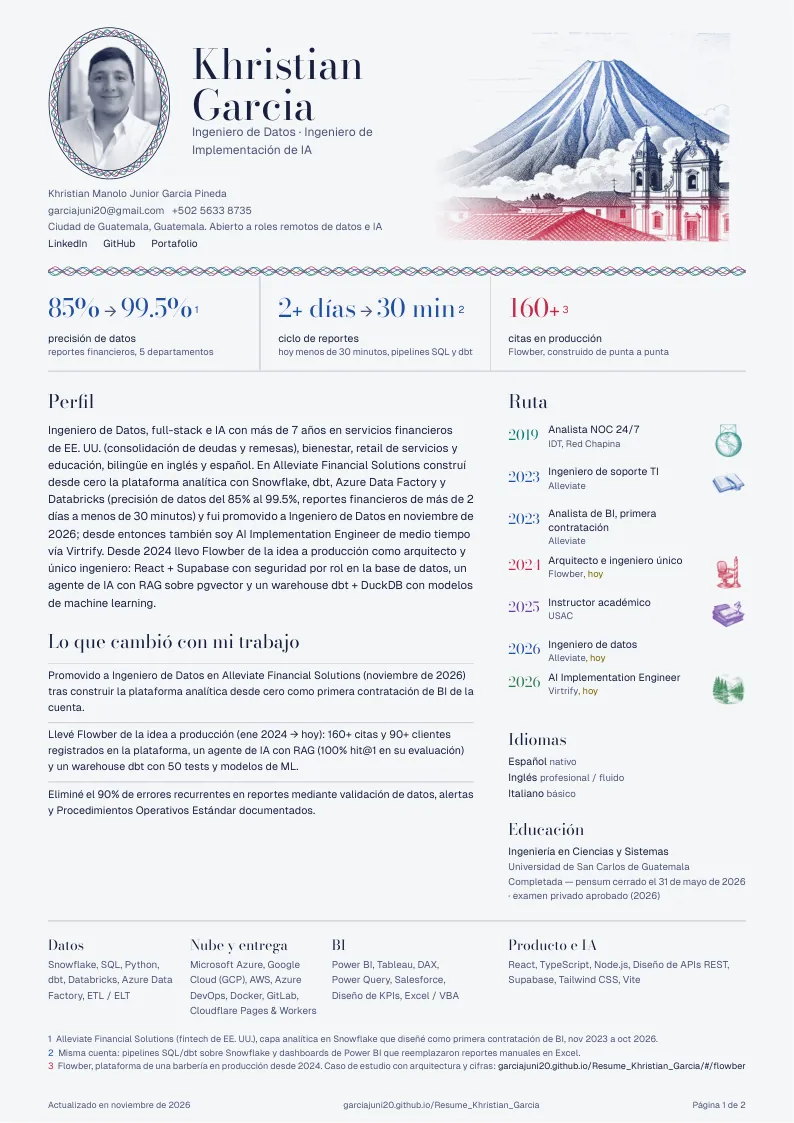
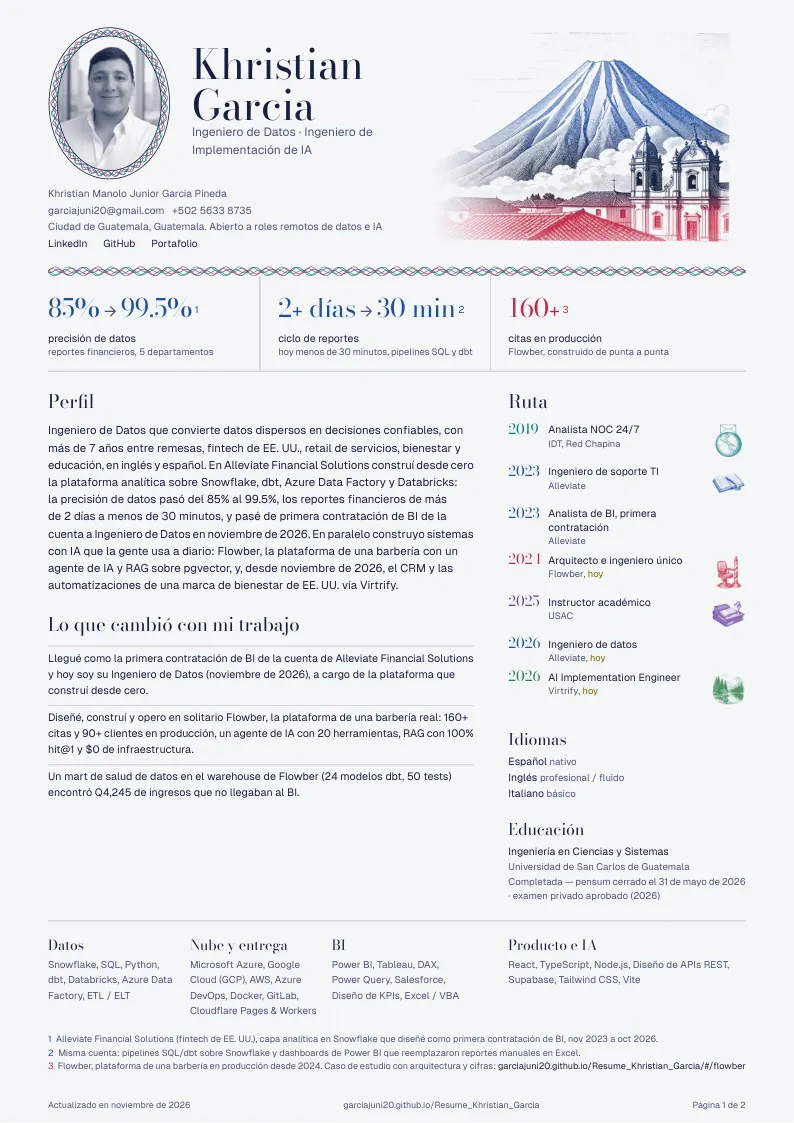
feat(cv): sharper achievements and summary, baseline-aligned creative PDF
Content (EN/ES, facts already in the profiles only):
- Summary opens with the positioning: a Data Engineer who turns scattered
  data into decisions people can trust, then the Alleviate numbers and the
  first-BI-hire -> Data Engineer arc.
- Achievements rewritten as before/after stories: 5 departments of
  spreadsheets -> one source of truth (85% -> 99.5%), first BI hire -> Data
  Engineer, 2+ days -> under 30 min, Flowber built and run solo, the
  data-health mart that found Q4,245 missing from BI, 90% fewer errors.
- Approach lines tightened (5 departments, GitLab, SOPs; IDT named).

Creative PDF:
- Route: years pulled up 4.6pt to share the baseline of the role.
- Ledger: the year is set like a drop cap on the company line; header grows
  to 21pt so react-pdf keeps it. Both languages still fit 2 pages.

Changed region(s): [[0.0605, 0.374, 0.6045, 0.748], [0.6348, 0.4987, 0.6952, 0.6233], [0.6348, 0.374, 0.6952, 0.4675]]

diff --git a/src/data/profile-es.ts b/src/data/profile-es.ts
@@ -17,26 +17,26 @@ export const profileES = {
     "Ingeniero de Datos, desarrollador full-stack e ingeniero de IA con más de 7 años en servicios financieros de EE. UU. (consolidación de deudas en Alleviate y remesas internacionales en IDT), bienestar, retail de servicios y educación universitaria, trabajando en inglés y en español. En Alleviate Financial Solutions construí desde cero la plataforma analítica como primera contratación de BI de la cuenta y fui promovido a Ingeniero de Datos en noviembre de 2026: modelado, perfilamiento de roles y optimización en Snowflake, pipelines ETL/ELT con dbt, orquestación en Azure Data Factory sobre Azure y GCP, Databricks e integraciones de Salesforce hacia Snowflake, elevando la precisión de datos del 85% al 99.5% y reduciendo el ciclo de reportes financieros de más de 2 días a menos de 30 minutos. Desde noviembre de 2026 también trabajo medio tiempo como AI Implementation Engineer a través de Virtrify, construyendo el CRM, las automatizaciones en n8n y el sistema de contenido de una marca de bienestar y retiros en EE. UU. Desde enero de 2024 lidero la transformación digital de Flowber, la barbería de Danover, de la idea a producción como full-stack engineer y arquitecto: React/TypeScript sobre PostgreSQL/Supabase con RLS por rol, un agente de IA con 20 herramientas y RAG sobre pgvector, y un data warehouse con dbt + DuckDB que incluye modelos predictivos. Lidero proyectos de principio a fin con stakeholders de EE. UU., automatizo procesos con Python, SQL y Selenium, y diseño, despliego y escalo APIs REST y aplicaciones dockerizadas. Ingeniería en Sistemas en la USAC completada (pensum cerrado y examen privado aprobado, 2026); maestría a partir de febrero de 2027.",
 
   summaryShort:
-    "Ingeniero de Datos, full-stack e IA con más de 7 años en servicios financieros de EE. UU. (consolidación de deudas y remesas), bienestar, retail de servicios y educación, bilingüe en inglés y español. En Alleviate Financial Solutions construí desde cero la plataforma analítica con Snowflake, dbt, Azure Data Factory y Databricks (precisión de datos del 85% al 99.5%, reportes financieros de más de 2 días a menos de 30 minutos) y fui promovido a Ingeniero de Datos en noviembre de 2026; desde entonces también soy AI Implementation Engineer de medio tiempo vía Virtrify. Desde 2024 llevo Flowber de la idea a producción como arquitecto y único ingeniero: React + Supabase con seguridad por rol en la base de datos, un agente de IA con RAG sobre pgvector y un warehouse dbt + DuckDB con modelos de machine learning.",
+    "Ingeniero de Datos que convierte datos dispersos en decisiones confiables, con más de 7 años entre remesas, fintech de EE. UU., retail de servicios, bienestar y educación, en inglés y español. En Alleviate Financial Solutions construí desde cero la plataforma analítica sobre Snowflake, dbt, Azure Data Factory y Databricks: la precisión de datos pasó del 85% al 99.5%, los reportes financieros de más de 2 días a menos de 30 minutos, y pasé de primera contratación de BI de la cuenta a Ingeniero de Datos en noviembre de 2026. En paralelo construyo sistemas con IA que la gente usa a diario: Flowber, la plataforma de una barbería con un agente de IA y RAG sobre pgvector, y, desde noviembre de 2026, el CRM y las automatizaciones de una marca de bienestar de EE. UU. vía Virtrify.",
 
   badges: ["Snowflake", "dbt · Databricks", "Azure Data Factory · GCP", "Python · SQL", "IA · RAG · pgvector", "Bilingüe EN/ES"],
 
   keyAchievements: [
-    "Mejoré la precisión de datos del 85% al 99.5% diseñando la capa analítica en Snowflake detrás del reporting financiero de 5 departamentos.",
-    "Promovido a Ingeniero de Datos en Alleviate Financial Solutions (noviembre de 2026) tras construir la plataforma analítica desde cero como primera contratación de BI de la cuenta.",
-    "Llevé Flowber de la idea a producción (ene 2024 → hoy): 160+ citas y 90+ clientes registrados en la plataforma, un agente de IA con RAG (100% hit@1 en su evaluación) y un warehouse dbt con 50 tests y modelos de ML.",
-    "Reduje el ciclo de reportes financieros de más de 2 días a menos de 30 minutos con pipelines automatizados en SQL/dbt y dashboards en Power BI — 70% menos tiempo de reporting manual.",
-    "Automaticé procesos internos de la empresa con Python, SQL y Selenium — incluyendo automatizaciones que impulsaron la generación de leads de forma medible.",
-    "Eliminé el 90% de errores recurrentes en reportes mediante validación de datos, alertas y Procedimientos Operativos Estándar documentados."
+    "Convertí el reporting de 5 departamentos, que vivía en hojas de cálculo, en una sola fuente de verdad en Snowflake: la precisión de datos pasó del 85% al 99.5%.",
+    "Llegué como la primera contratación de BI de la cuenta de Alleviate Financial Solutions y hoy soy su Ingeniero de Datos (noviembre de 2026), a cargo de la plataforma que construí desde cero.",
+    "Bajé el cierre de reportes financieros de más de 2 días a menos de 30 minutos con pipelines SQL/dbt y dashboards en Power BI: 70% menos trabajo manual en cada ciclo.",
+    "Diseñé, construí y opero en solitario Flowber, la plataforma de una barbería real: 160+ citas y 90+ clientes en producción, un agente de IA con 20 herramientas, RAG con 100% hit@1 y $0 de infraestructura.",
+    "Un mart de salud de datos en el warehouse de Flowber (24 modelos dbt, 50 tests) encontró Q4,245 de ingresos que no llegaban al BI.",
+    "Eliminé el 90% de los errores recurrentes en reportes con validaciones, alertas y Procedimientos Operativos Estándar documentados."
   ],
 
   experience: [
     {
       id: "alleviate-de",
       approach: {
-        context: "Ascendido en nov 2026 a dueño de la plataforma que construí como primer contratado de BI de la cuenta; el negocio corre sobre ella.",
+        context: "Ascendido en noviembre de 2026 para hacerme cargo de la plataforma que construí; hoy la empresa opera sobre ella.",
         how: "Recursos en Azure y GCP, orquestación en ADF, modelado y diseño de accesos en Snowflake, pipelines en dbt y Python, integraciones con Salesforce, SOPs y CI en GitLab.",
-        result: "Una plataforma gobernada que consulta toda la empresa, con procedimientos documentados y control de versiones.",
+        result: "Una plataforma gobernada que consultan los 5 departamentos, versionada en GitLab y documentada con SOPs.",
       },
       industry: "Fintech · Consolidación de deudas (EE. UU.)",
       company: "Icon Solutions Group S.A / Alleviate Financial Solutions",
@@ -81,7 +81,7 @@ export const profileES = {
     {
       id: "flowber-freelance",
       approach: {
-        context: "Una barbería con agenda en papel, dobles citas y sin datos de su propio negocio.",
+        context: "Una barbería real con agenda en papel, citas duplicadas y sin datos de su negocio.",
         how: "Descubrimiento con el dueño; luego una plataforma serverless React + Supabase con la seguridad en la base de datos, un agente de IA con 20 herramientas y RAG, y un warehouse dbt + DuckDB con ML.",
         result: "160+ citas y 90+ clientes en producción, RAG con 100% hit@1, LCP móvil de 4.8 s a 2.5 s.",
       },
@@ -108,7 +108,7 @@ export const profileES = {
       approach: {
         context: "Primer contratado de BI en una fintech de consolidación de deudas de EE. UU.: cinco departamentos reportando desde hojas de cálculo con 85% de precisión.",
         how: "Modelé un esquema estrella en Snowflake, validé cada fuente, construí pipelines en dbt y ADF y 15+ dashboards en Power BI y Tableau con los stakeholders de EE. UU.",
-        result: "Precisión de datos 99.5%, ciclo de reportes de 2+ días a menos de 30 minutos, y el ascenso a Ingeniero de Datos.",
+        result: "Precisión del 85% al 99.5%, reportes de 2+ días a menos de 30 minutos y el ascenso a Ingeniero de Datos.",
       },
       industry: "Fintech · Consolidación de deudas (EE. UU.)",
       company: "Icon Solutions Group S.A / Alleviate Financial Solutions",
@@ -163,7 +163,7 @@ export const profileES = {
     {
       id: "idt-gnoc",
       approach: {
-        context: "NOC 24/7 de infraestructura de remesas internacionales para 5,000+ usuarios concurrentes.",
+        context: "Guardia 24/7 de la infraestructura de remesas de IDT: 5,000+ usuarios concurrentes.",
         how: "Monitoreo con Zabbix, Grafana, New Relic y Splunk; triage de incidentes, escalamiento y runbooks en Windows y Linux.",
         result: "Tiempo medio de recuperación 25% menor y respuesta a incidentes 60% más rápida con alertas automatizadas.",
       },

diff --git a/src/data/profile-en.ts b/src/data/profile-en.ts
@@ -17,26 +17,26 @@ export const profileEN = {
     "Data Engineer, full-stack developer, and AI engineer with 7+ years across US financial services (debt consolidation at Alleviate and international remittances at IDT), wellness, service retail, and university education, working in both English and Spanish. At Alleviate Financial Solutions I built the analytics platform from scratch as the account's first BI hire and was promoted to Data Engineer in November 2026: Snowflake modeling, role profiling and optimization, dbt and ETL/ELT pipelines, Azure Data Factory orchestration across Azure and GCP, Databricks, and Salesforce-to-Snowflake integrations, raising data accuracy from 85% to 99.5% and cutting the financial reporting cycle from 2+ days to under 30 minutes. Since November 2026 I also work part-time as AI Implementation Engineer through Virtrify, building the CRM, n8n automation, and content backbone of a US wellness and retreat brand. Since January 2024 I have led the digital transformation of Flowber, Danover's barbershop, from idea to production as full-stack engineer and architect: React/TypeScript on PostgreSQL/Supabase with role-based RLS, an AI agent with 20 tools and RAG on pgvector, and a dbt + DuckDB data warehouse with predictive models. I lead projects end to end with US stakeholders, automate processes with Python, SQL, and Selenium, and design, deploy, and scale REST APIs and dockerized apps. Systems Engineering at USAC completed (pensum closed and private exam passed, 2026); master's degree starting February 2027.",
 
   summaryShort:
-    "Data Engineer, full-stack and AI engineer with 7+ years across US financial services (debt consolidation and remittances), wellness, service retail, and education, bilingual in English and Spanish. At Alleviate Financial Solutions I built the analytics platform from scratch with Snowflake, dbt, Azure Data Factory, and Databricks (data accuracy from 85% to 99.5%, financial reporting from 2+ days to under 30 minutes) and was promoted to Data Engineer in November 2026; since then also a part-time AI Implementation Engineer via Virtrify. Since 2024 I have taken Flowber from idea to production as architect and sole engineer: React + Supabase with role-based security in the database, an AI agent with RAG on pgvector, and a dbt + DuckDB warehouse with machine learning models.",
+    "Data Engineer who turns scattered data into decisions people can trust, with 7+ years across remittances, US fintech, service retail, wellness, and education, in English and Spanish. At Alleviate Financial Solutions I built the analytics platform from scratch on Snowflake, dbt, Azure Data Factory, and Databricks: data accuracy went from 85% to 99.5%, financial reporting from 2+ days to under 30 minutes, and I went from the account's first BI hire to Data Engineer in November 2026. Alongside, I build AI systems people use every day: Flowber, a barbershop platform with an AI agent and RAG on pgvector, and, since November 2026, the CRM and automations of a US wellness brand via Virtrify.",
 
   badges: ["Snowflake", "dbt · Databricks", "Azure Data Factory · GCP", "Python · SQL", "AI · RAG · pgvector", "Bilingual EN/ES"],
 
   keyAchievements: [
-    "Improved data accuracy from 85% to 99.5% by architecting the Snowflake analytical layer behind financial reporting for 5 departments.",
-    "Promoted to Data Engineer at Alleviate Financial Solutions (November 2026) after building the analytics platform from zero as the account's first BI hire.",
-    "Took Flowber from idea to production (Jan 2024 → today): 160+ appointments and 90+ registered customers on the platform, an AI agent with RAG (100% hit@1 on its eval set), and a dbt warehouse with 50 tests and ML models.",
-    "Reduced the financial reporting cycle from 2+ days to under 30 minutes with automated SQL/dbt pipelines and Power BI dashboards — 70% less manual reporting time.",
-    "Automated internal company processes with Python, SQL, and Selenium — including automations that measurably boosted lead generation.",
-    "Eliminated 90% of recurring reporting errors through data validation, alerting, and documented Standard Operating Procedures."
+    "Turned 5 departments' spreadsheet reporting into a single source of truth in Snowflake: data accuracy went from 85% to 99.5%.",
+    "Joined as the first BI hire on the Alleviate Financial Solutions account and am now its Data Engineer (November 2026), owning the platform I built from scratch.",
+    "Cut the financial reporting cycle from 2+ days to under 30 minutes with SQL/dbt pipelines and Power BI dashboards: 70% less manual work every cycle.",
+    "Designed, built and run Flowber solo, the platform of a real barbershop: 160+ appointments and 90+ customers in production, an AI agent with 20 tools, RAG at 100% hit@1 and $0 infrastructure.",
+    "A data-health mart in Flowber's warehouse (24 dbt models, 50 tests) found Q4,245 of revenue that never reached BI.",
+    "Eliminated 90% of recurring reporting errors with validation, alerting, and documented Standard Operating Procedures."
   ],
 
   experience: [
     {
       id: "alleviate-de",
       approach: {
-        context: "Promoted in Nov 2026 to own the platform I had built as the account's first BI hire; the business now runs on it.",
+        context: "Promoted in November 2026 to own the platform I built; the company now runs on it.",
         how: "Cloud resources on Azure and GCP, ADF orchestration, Snowflake modeling and access design, dbt and Python pipelines, Salesforce integrations, SOPs and GitLab CI.",
-        result: "One governed platform the whole company queries, with documented procedures and version control.",
+        result: "One governed platform all 5 departments query, versioned in GitLab and documented with SOPs.",
       },
       industry: "Fintech · Debt consolidation (US)",
       company: "Icon Solutions Group S.A / Alleviate Financial Solutions",
@@ -81,7 +81,7 @@ export const profileEN = {
     {
       id: "flowber-freelance",
       approach: {
-        context: "A barbershop with a paper schedule, double bookings and no data about its own business.",
+        context: "A real barbershop with a paper schedule, double bookings and no data about its own business.",
         how: "Discovery with the owner, then a serverless React + Supabase platform with security in the database, an AI agent with 20 tools and RAG, and a dbt + DuckDB warehouse with ML.",
         result: "160+ appointments and 90+ customers in production, RAG at 100% hit@1, mobile LCP from 4.8 s to 2.5 s.",
       },
@@ -108,7 +108,7 @@ export const profileEN = {
       approach: {
         context: "First BI hire at a US debt-consolidation fintech: five departments reporting from spreadsheets at 85% data accuracy.",
         how: "Modeled a Snowflake star schema, validated every source, built dbt and ADF pipelines and 15+ Power BI and Tableau dashboards with the US stakeholders.",
-        result: "Data accuracy 99.5%, reporting cycle from 2+ days to under 30 minutes, and the promotion to Data Engineer.",
+        result: "Accuracy from 85% to 99.5%, reporting from 2+ days to under 30 minutes, and the promotion to Data Engineer.",
       },
       industry: "Fintech · Debt consolidation (US)",
       company: "Icon Solutions Group S.A / Alleviate Financial Solutions",
@@ -163,7 +163,7 @@ export const profileEN = {
     {
       id: "idt-gnoc",
       approach: {
-        context: "24/7 NOC for international remittance infrastructure serving 5,000+ concurrent users.",
+        context: "24/7 watch over IDT's remittance infrastructure: 5,000+ concurrent users.",
         how: "Monitoring with Zabbix, Grafana, New Relic and Splunk; incident triage, escalation and runbooks on Windows and Linux.",
         result: "Mean time to recovery down 25% and incident response 60% faster with automated alerting.",
       },

diff --git a/src/pdf/CVCreative.tsx b/src/pdf/CVCreative.tsx
@@ -119,7 +119,8 @@ const styles = StyleSheet.create({
 
   // ── Route: the career in order, with the industry vignettes
   stop: { flexDirection: 'row', alignItems: 'flex-start', marginBottom: 5.5 },
-  stopYear: { fontFamily: 'Bodoni', fontSize: 10.5, color: INK, width: 30 },
+  // Pulled up so the year shares its baseline with the first line of the role
+  stopYear: { fontFamily: 'Bodoni', fontSize: 10.5, color: INK, width: 30, marginTop: -4.6 },
   stopText: { flex: 1 },
   stopRole: { fontSize: 7.8, color: INK, lineHeight: 1.3 },
   stopAt: { fontSize: 7, color: INK_2, marginTop: 0.5 },
@@ -153,10 +154,11 @@ const styles = StyleSheet.create({
   pageTitle: { fontFamily: 'Bodoni', fontSize: 18, color: INK, marginTop: 2, marginBottom: 5 },
   entry: { flexDirection: 'row', borderTopWidth: 0.75, borderTopColor: RULE, paddingTop: 6, paddingBottom: 5 },
   entryWhen: { width: 70 },
-  entryYear: { fontFamily: 'Bodoni', fontSize: 15, color: INK, lineHeight: 1 },
+  // Set like a drop cap: the year's baseline sits on the company line, beside the title
+  entryYear: { fontFamily: 'Bodoni', fontSize: 15, color: INK, lineHeight: 1, marginTop: 3.1 },
   entrySpan: { fontSize: 6.8, color: INK_2, marginTop: 3 },
   // Fixed height, so the dates sit at the same depth whether or not a vignette is stamped
-  entryHead: { height: 18, flexDirection: 'row', justifyContent: 'space-between', alignItems: 'flex-start', paddingRight: 4 },
+  entryHead: { height: 21, flexDirection: 'row', justifyContent: 'space-between', alignItems: 'flex-start', paddingRight: 4 },
   entryArt: { width: 20, height: 20, marginTop: -2 },
   entryBody: { flex: 1 },
   role: { fontWeight: 600, fontSize: 9, color: INK },
